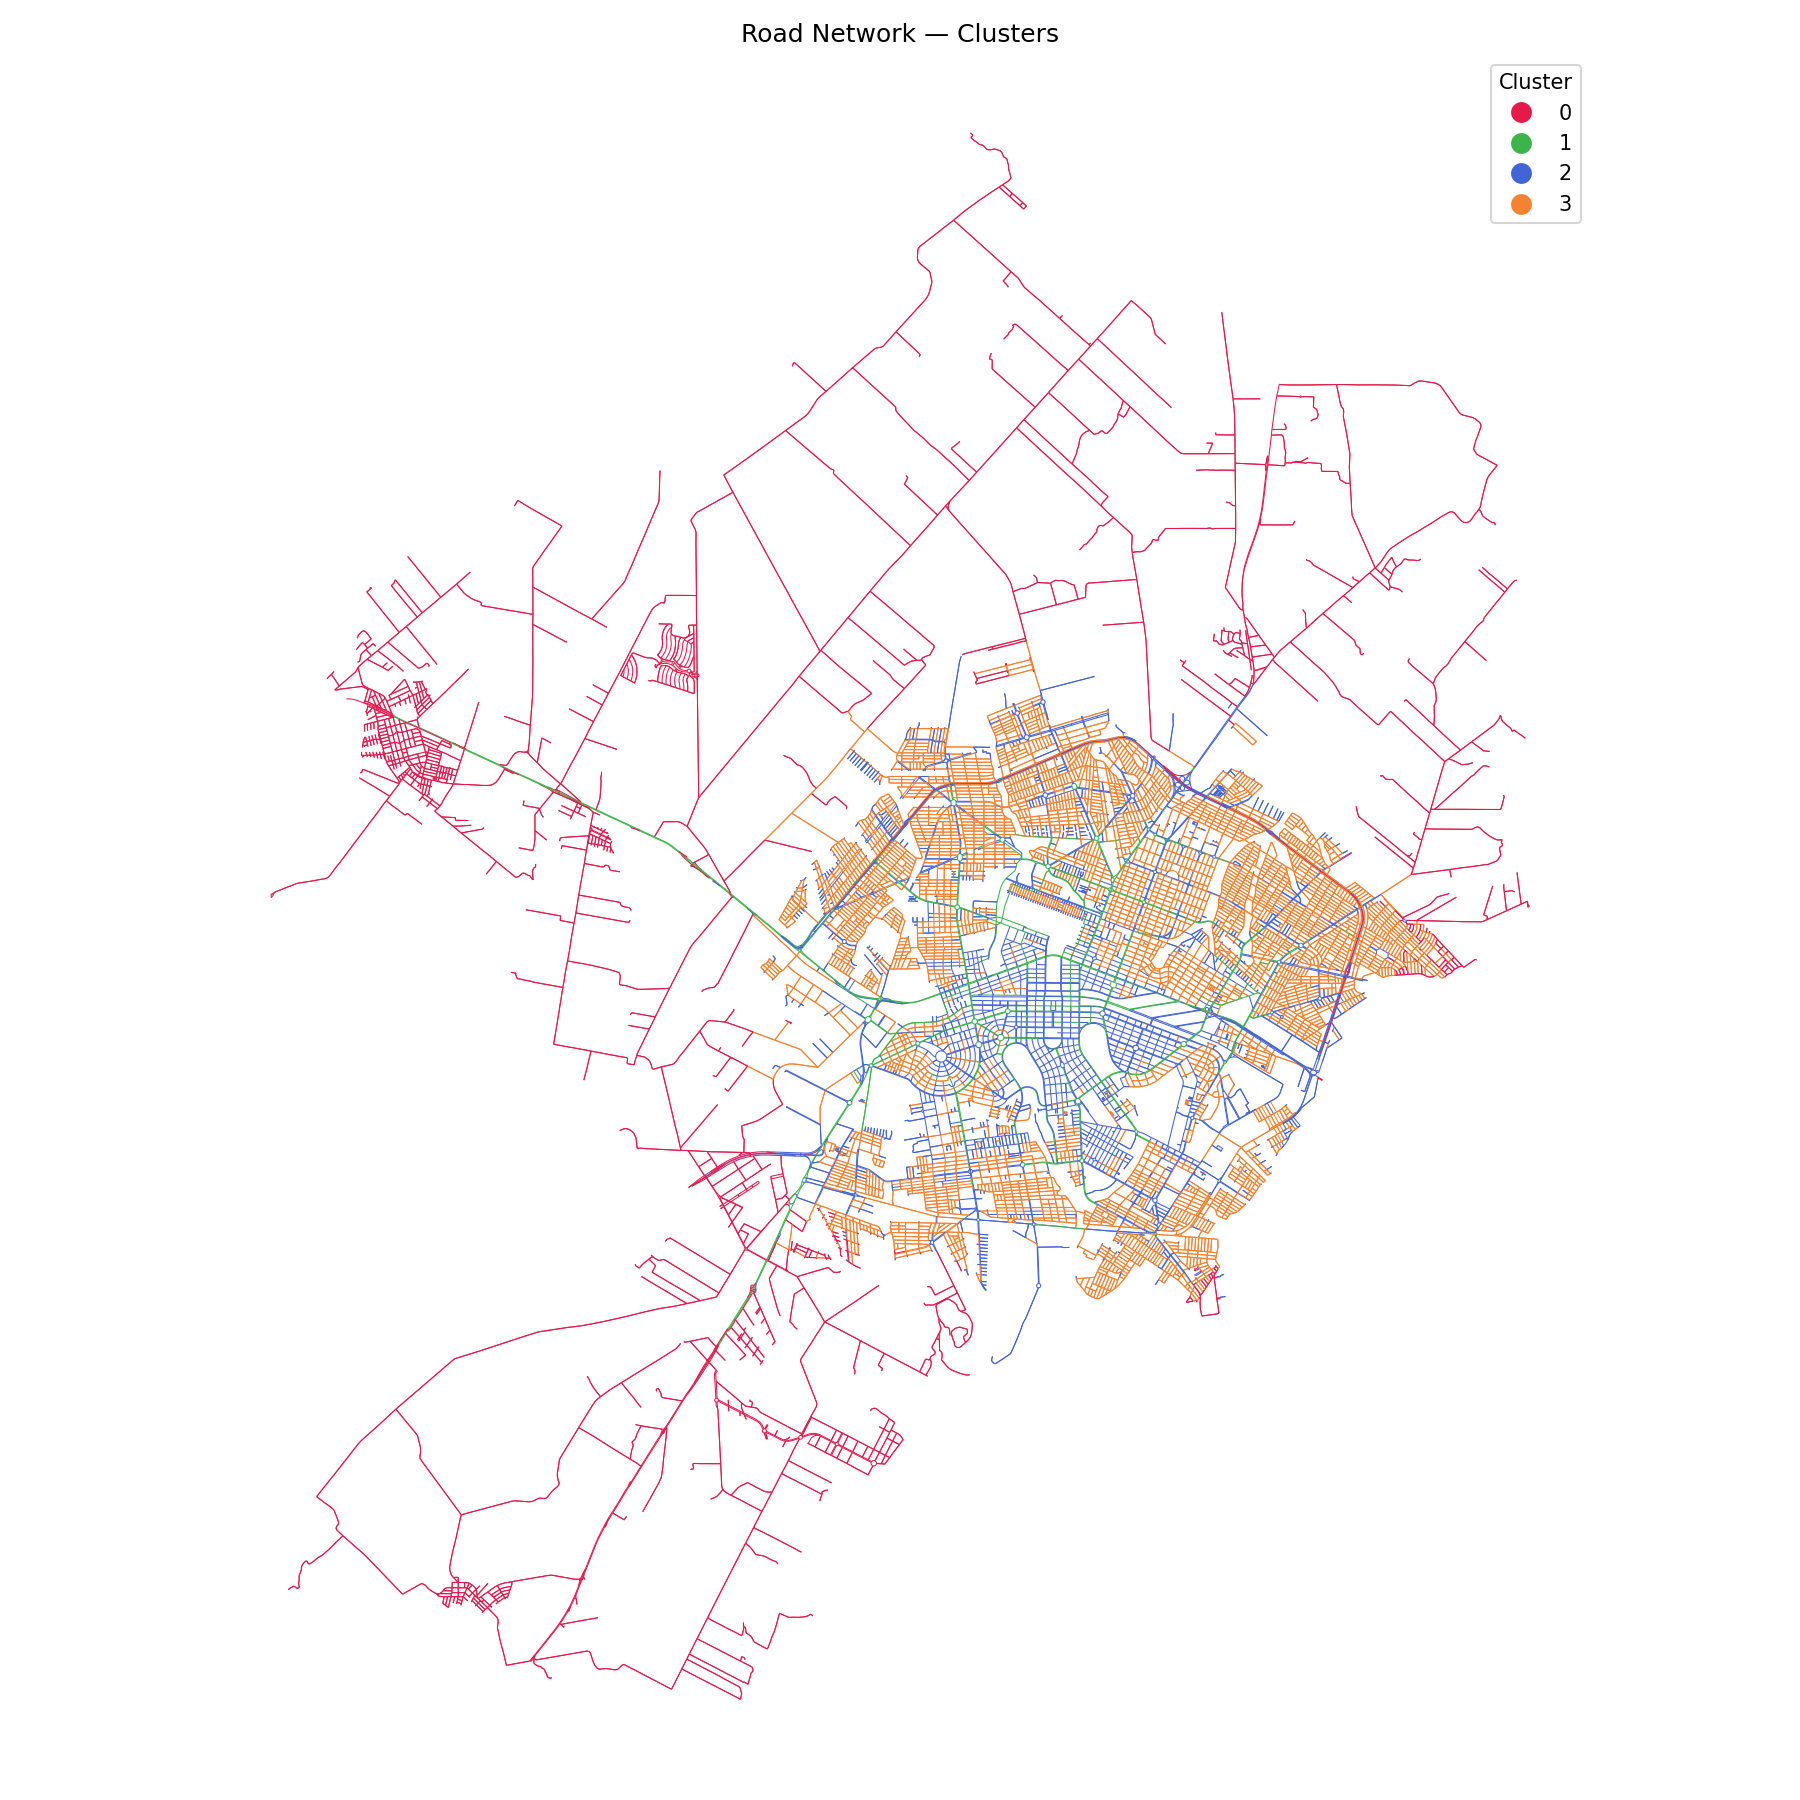
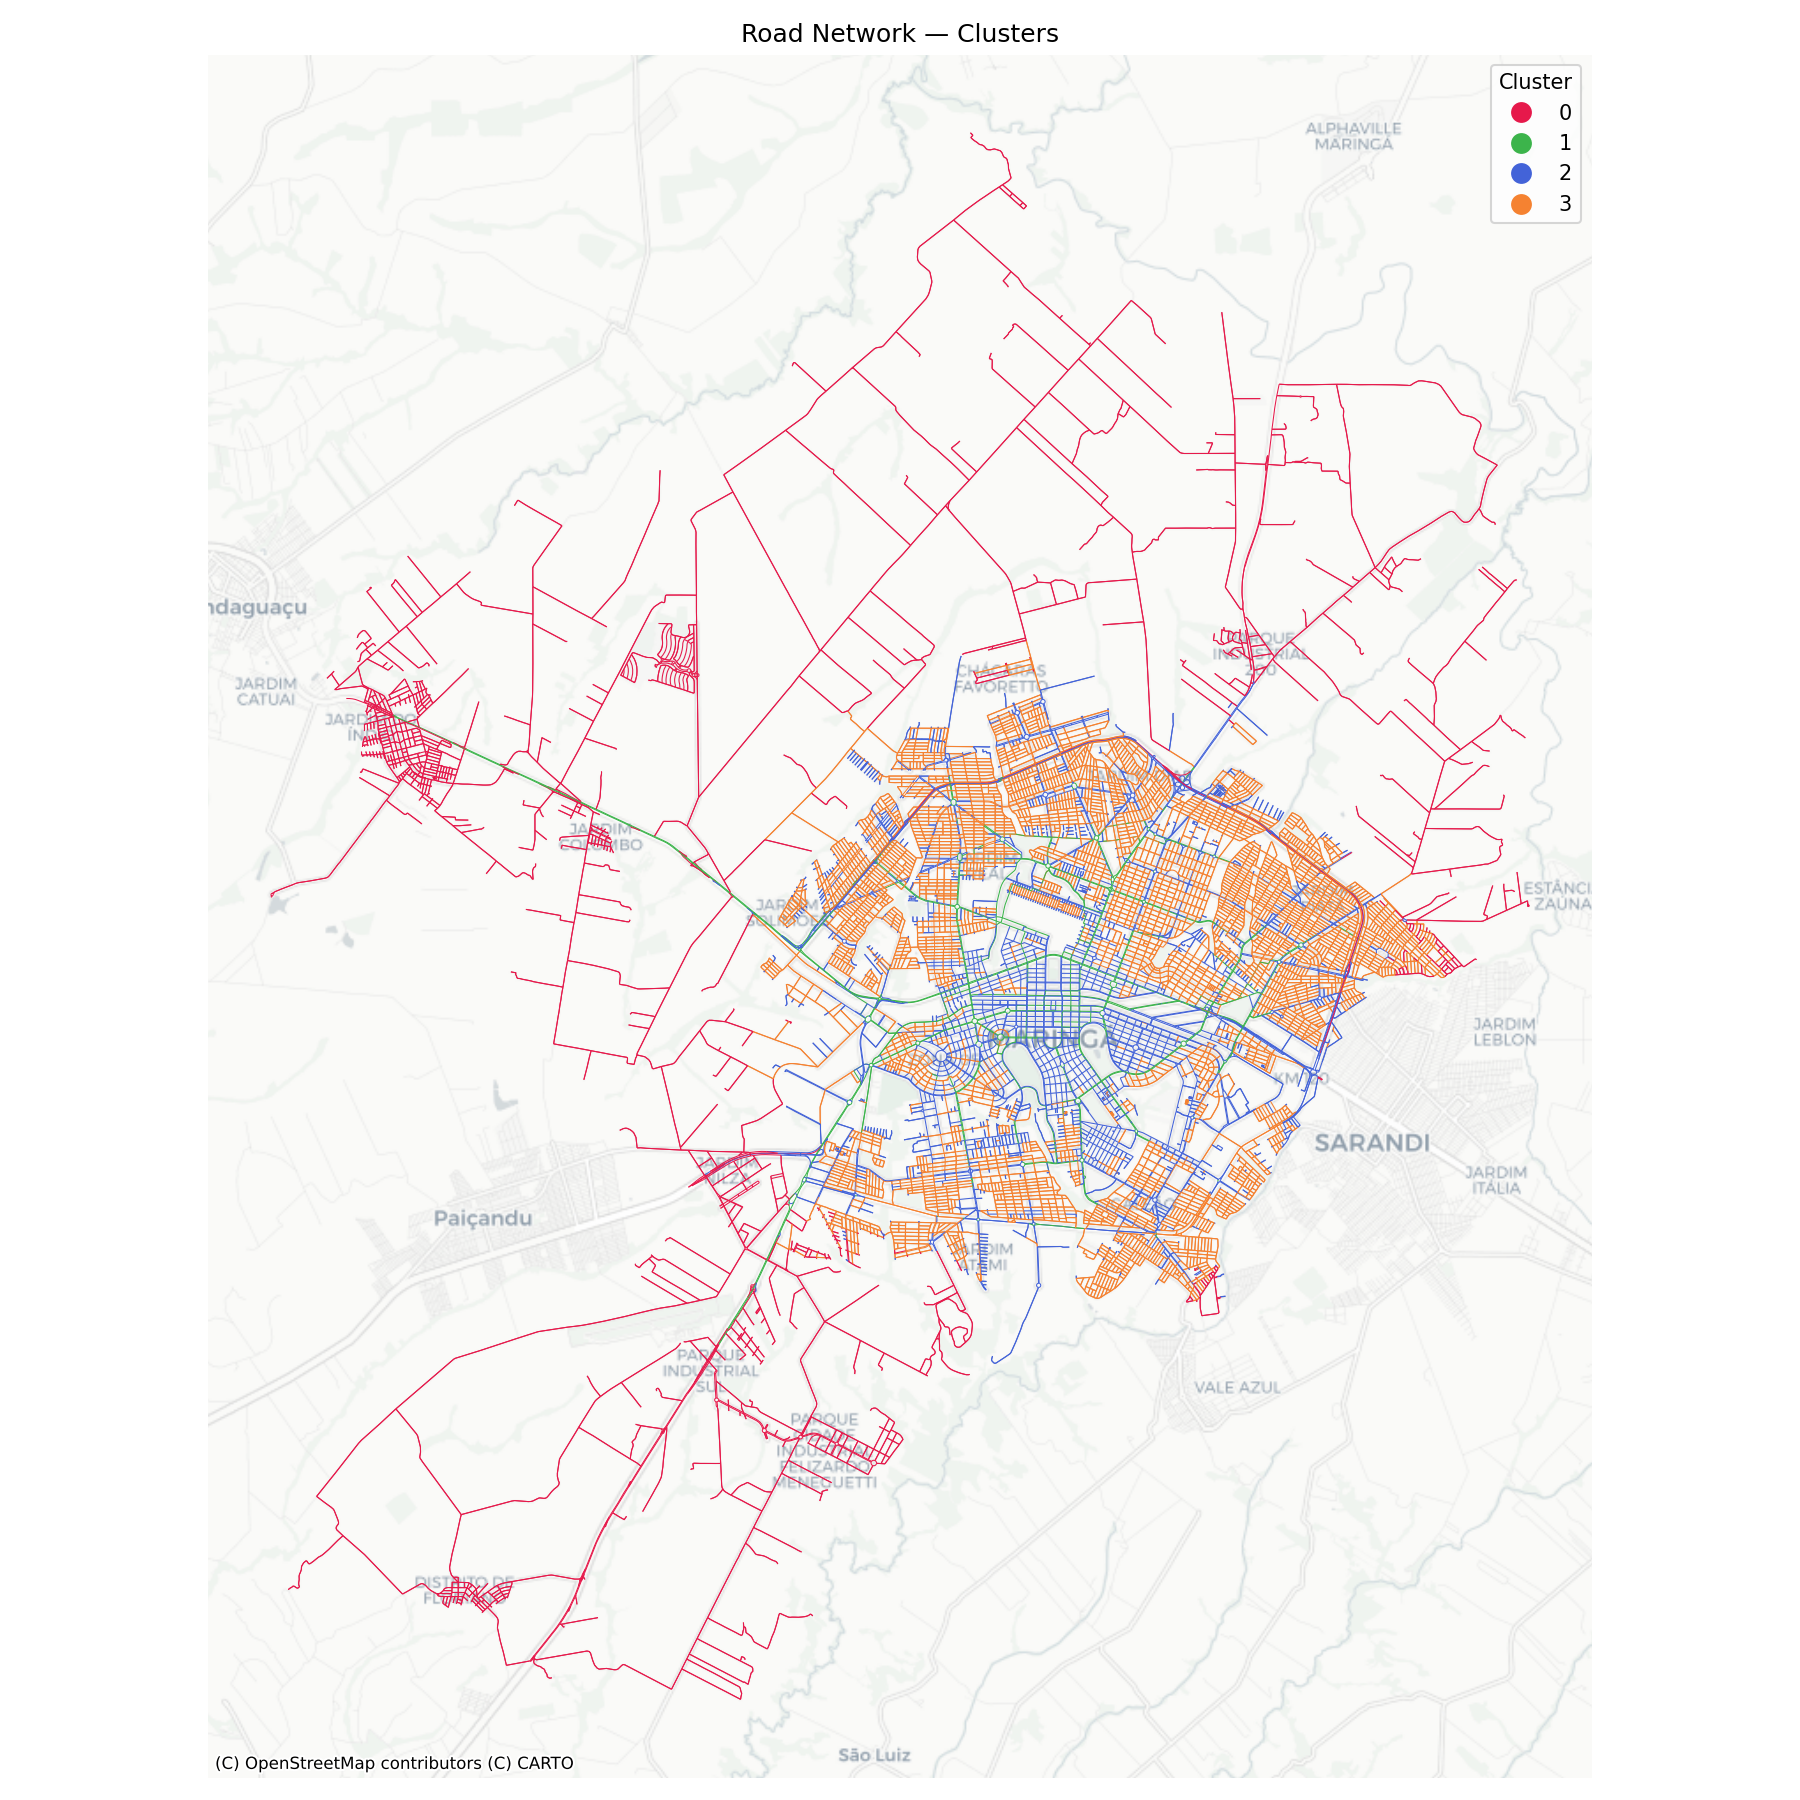
Add basemap

diff --git a/src/network_classifier/plots.py b/src/network_classifier/plots.py
@@ -2,6 +2,7 @@
 
 from pathlib import Path
 
+import contextily as cx
 import numpy as np
 import networkx as nx
 import matplotlib.pyplot as plt
@@ -105,6 +106,7 @@ def plot_map(G: nx.MultiDiGraph, filepath: Path) -> None:
     filepath.parent.mkdir(parents=True, exist_ok=True)
 
     gdf_edges = ox.graph_to_gdfs(G, nodes=False, edges=True)
+    gdf_edges = gdf_edges.to_crs(epsg=3857)
     n_clusters = gdf_edges["cluster"].nunique()
     cmap = ListedColormap(_cluster_colors(n_clusters))
 
@@ -118,6 +120,7 @@ def plot_map(G: nx.MultiDiGraph, filepath: Path) -> None:
         linewidth=0.5,
         cmap=cmap,
     )
+    cx.add_basemap(ax, source=cx.providers.CartoDB.Positron)
     ax.set_axis_off()
     ax.set_title("Road Network \u2014 Clusters")
     fig.tight_layout()